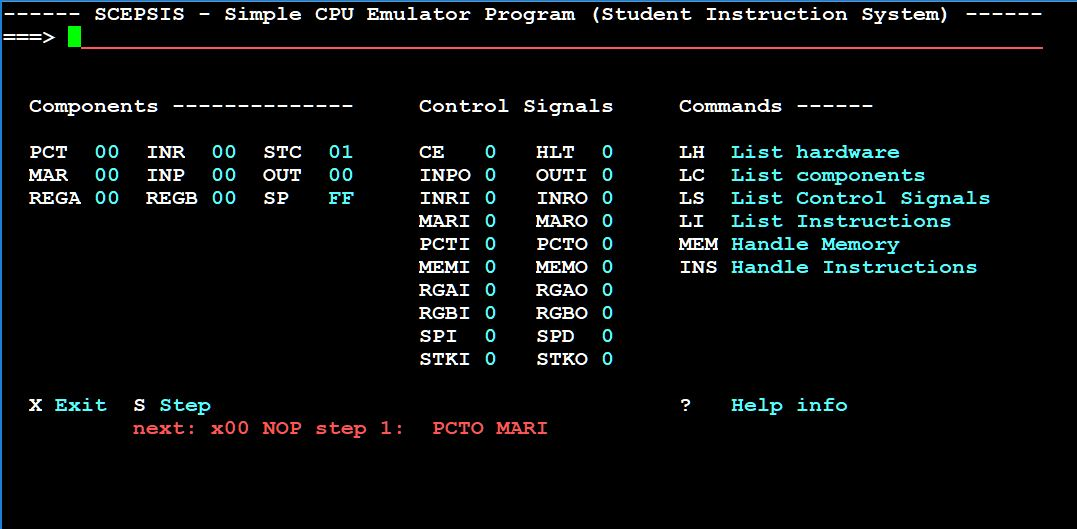
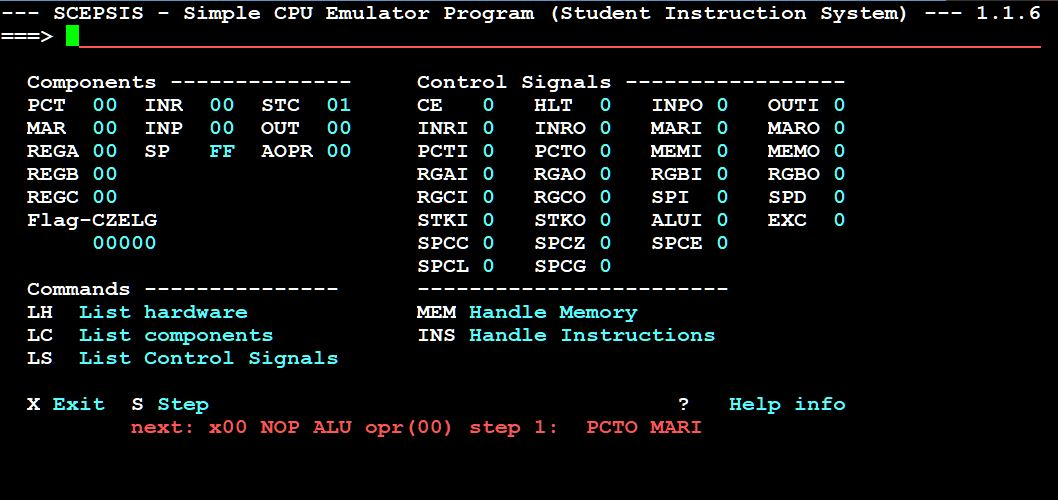
Updated gfx

diff --git a/ROADMAP.md b/ROADMAP.md
@@ -4,36 +4,21 @@
 Release 1.2 will contain conditional jumps. All of the intermediate small releases will work towards that goal.
 
 #### DONE - 1.1.2	Arithmetic
-Add code to decode ALU instructions and control it's operations:
-- Add
-- Subtract
-- Compare
-- And
-- Or
-- Not
+Add code to decode ALU instructions and control it's operations.
 
 #### DONE - 1.1.4	Set appropriate flags
-Depending on the outcome of ALU operations, set flags:
-- C		Carry
-- Z		Zero
-- EQ 	Equal
-- LT	Less then
-- GT	Greater then
+Depending on the outcome of ALU operations, set flags.
 
 #### DONE -  1.1.5	Implement conditional jumps
-Implement control signals to facilitatie conditional jumps (they would work the same way as the existing PCTI, only dependent on conditions):
-- SPCC	Set Program Counter when Carry set
-- SPCZ	Set Program Counter when Zero
-- SPCE	Set Program Counter when Equal
-- SPCL	Set Program Counter when Less
-- SPCG	Set Program Counter when Greater
+Implement control signals to facilitatie conditional jumps (they would work the same way as the existing PCTI, only dependent on conditions).
 
 #### DONE -  1.1.6	Expand example instruction set with examples of conditional jumps
-- JC, JZ, JE, JL, JG
 
-#### 1.1.7	Introduce the possibility to execute one instruction (with all its microsteps) at once
+#### 1.1.7	Introduce the 'execute one instruction' command
+Build code for the 'I' instruction to execute a complete instruction with all it's microcode steps.
 
-#### 1.1.8	Introduce the possibility to execute the program from the point where the PCT in pointing
+#### 1.1.8	Introduce the 'execute the program' command
+Build code for the 'R' instruction to execute the program from where the PCT is pointing; includes building code for the HLT instruction / status.
 
 #### 1.1.9	Where needed, fix minor bugs, do housekeeping
 
